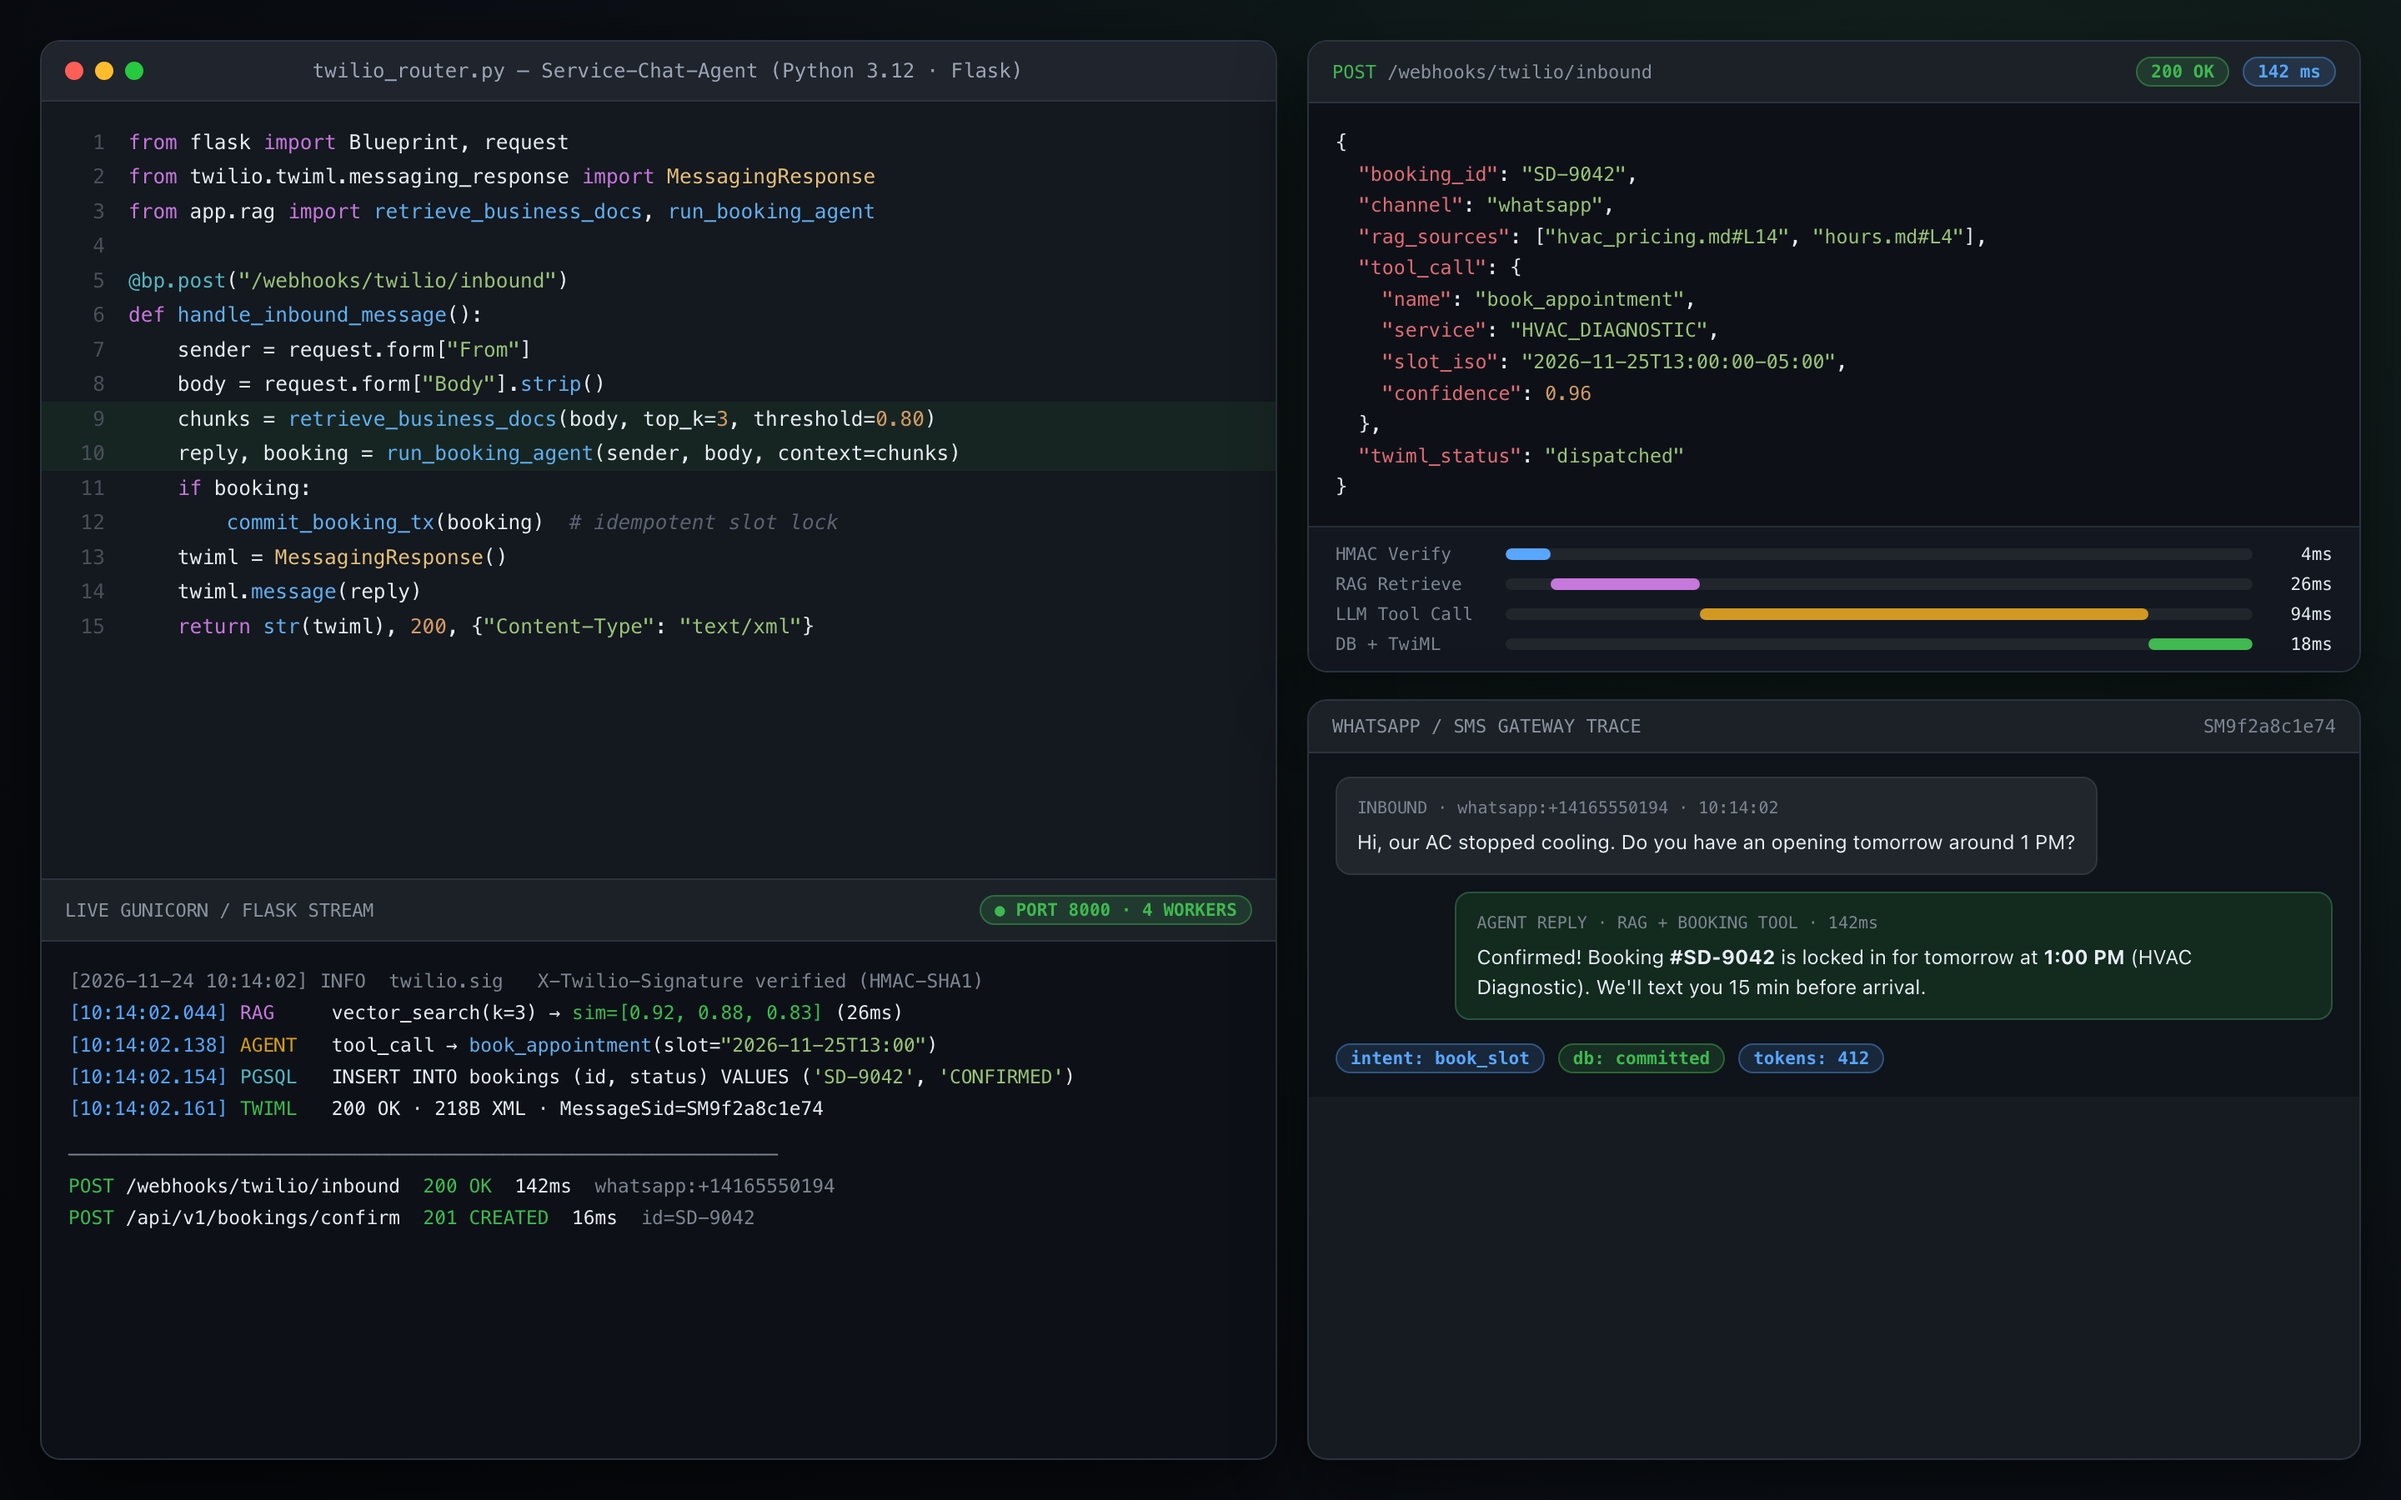
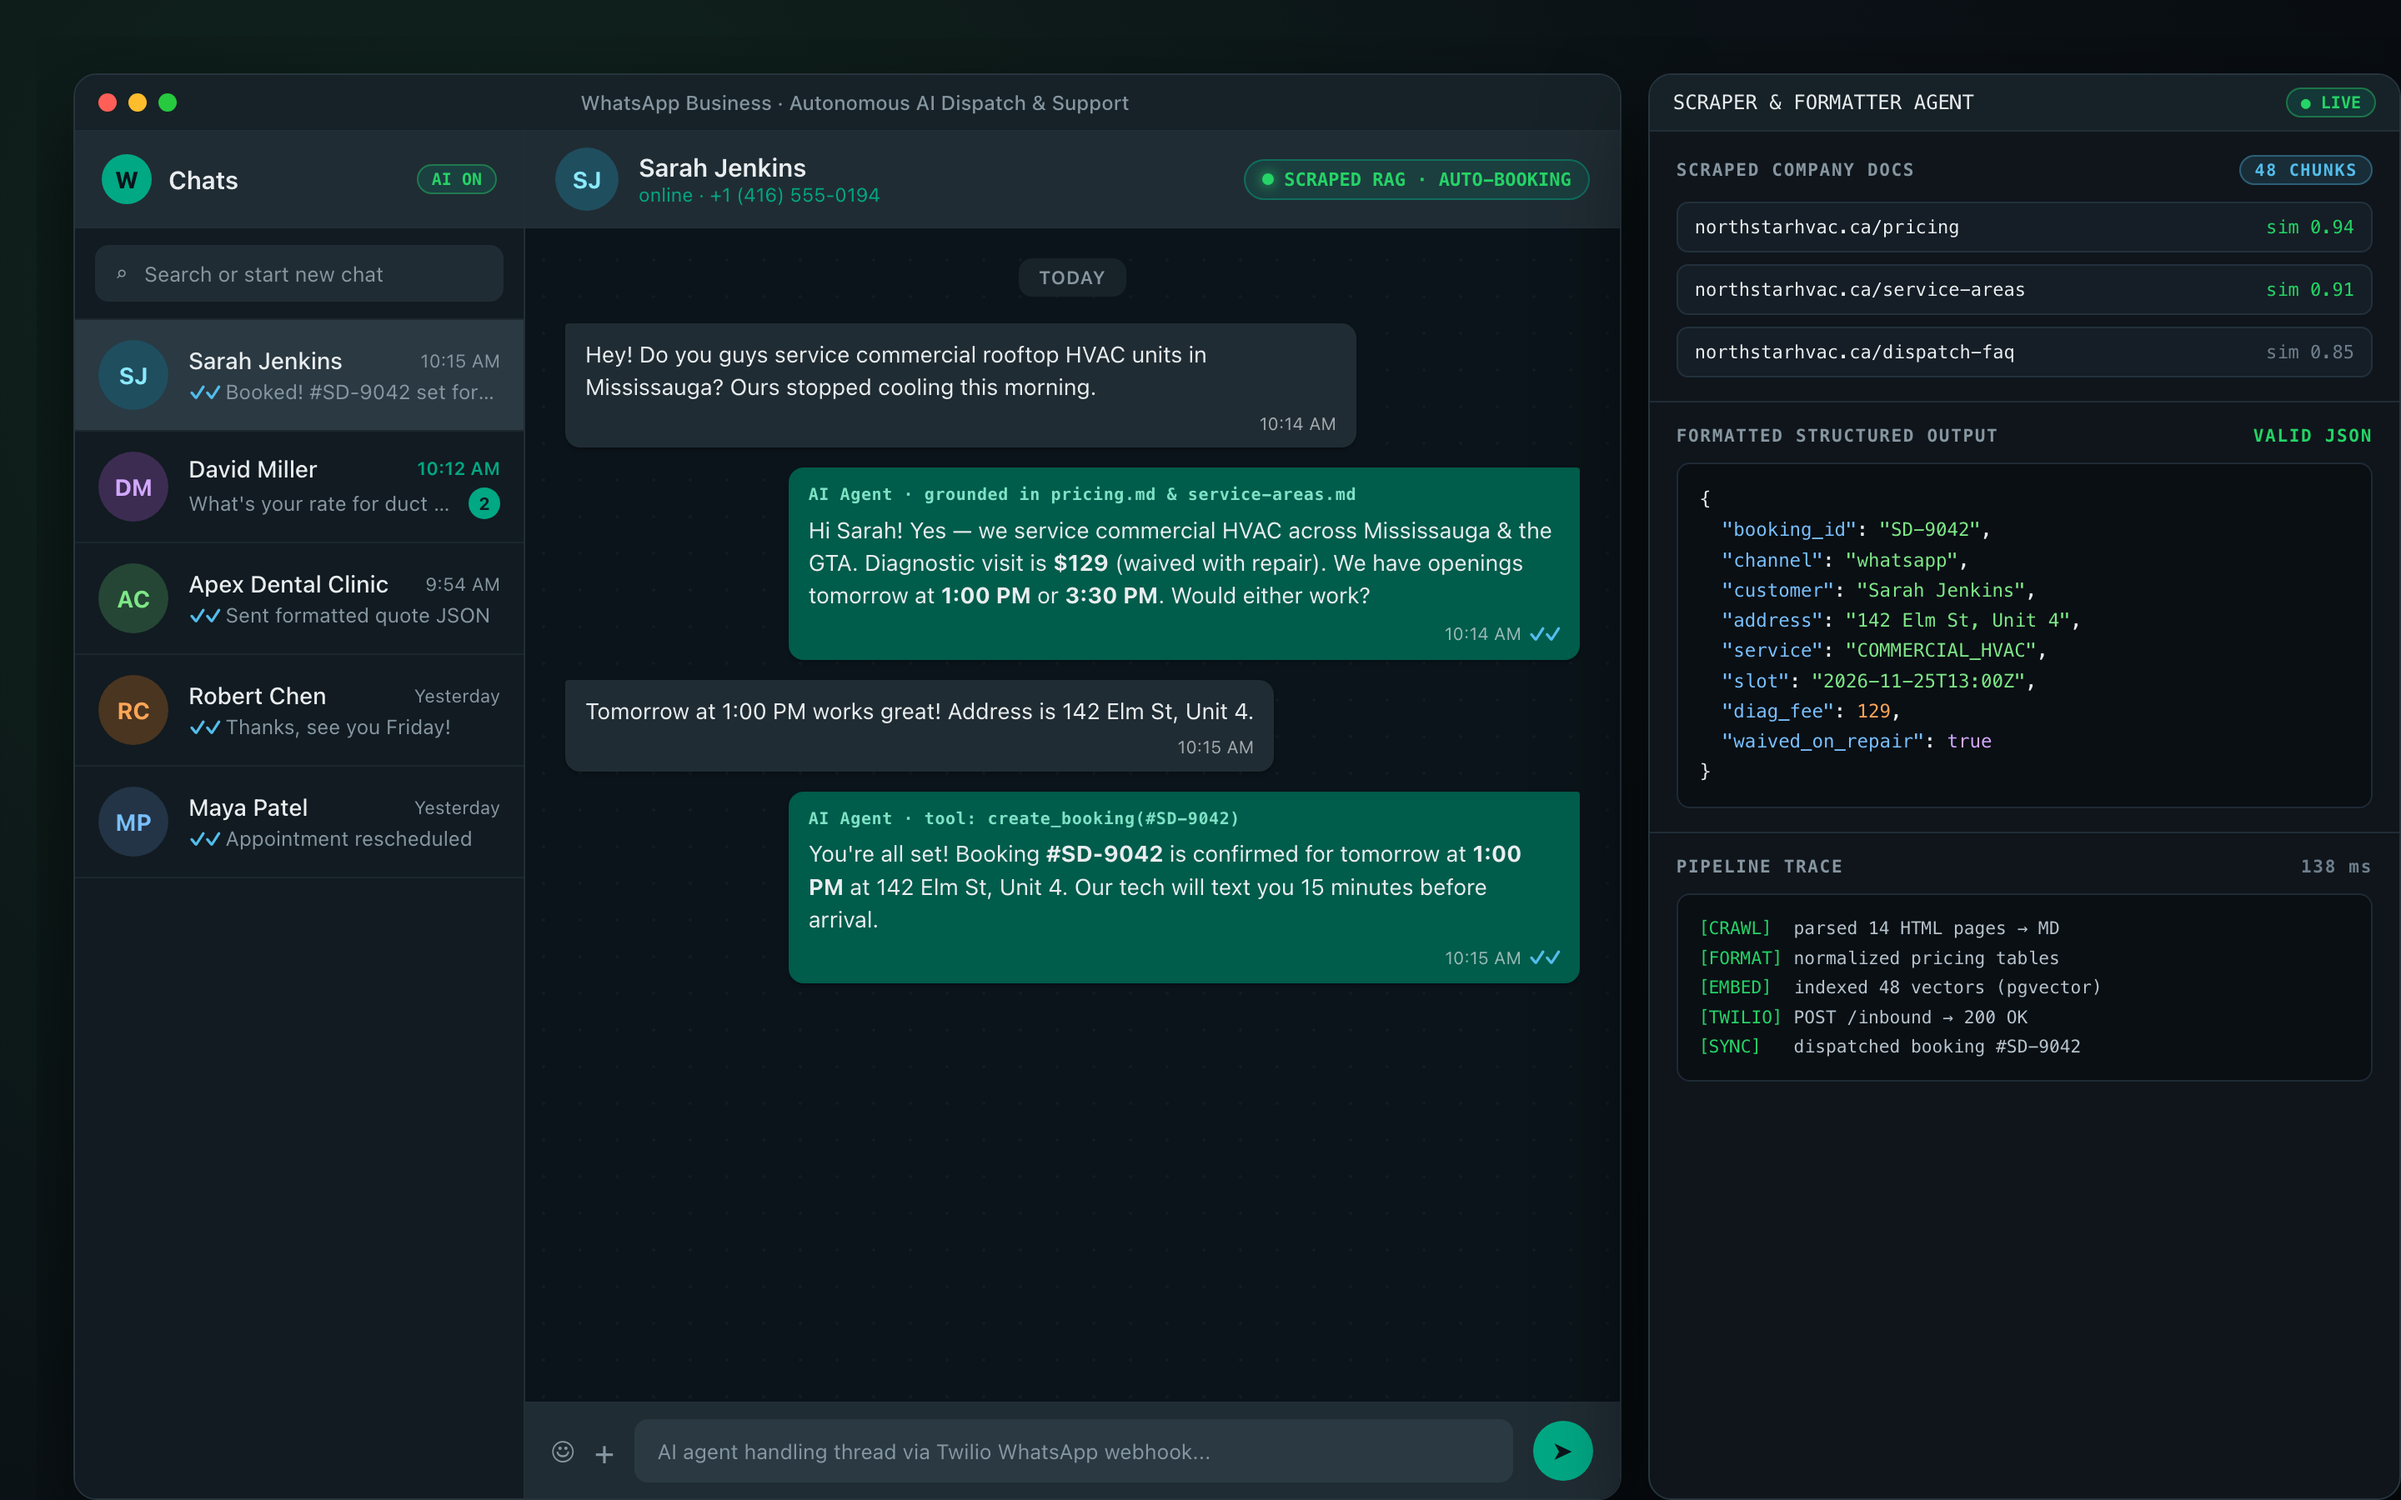
Prevent project image cropping, use content-driven card heights, upgrade WhatsApp agent visual, and update titles

diff --git a/styles.css b/styles.css
@@ -1293,11 +1293,12 @@ section[data-display-number]::after {
   border-radius: var(--radius-card);
 }
 .project-card {
-  aspect-ratio: 1 / 1;
-  min-height: 220px;
+  aspect-ratio: auto;
+  height: auto;
+  min-height: 0;
 }
 .project-featured-card {
-  min-height: clamp(250px, 30vh, 340px);
+  min-height: 0;
   height: auto;
   flex: 0 0 auto;
   padding: 22px;
@@ -1356,9 +1357,9 @@ section[data-display-number]::after {
 .project-card-frame {
   display: flex;
   flex-direction: column;
-  justify-content: space-between;
+  justify-content: flex-start;
   gap: 18px;
-  height: 100%;
+  height: auto;
 }
 .project-featured-card .project-card-frame {
   transition: filter 0.18s cubic-bezier(0.22, 1, 0.36, 1);
@@ -1417,28 +1418,22 @@ section[data-display-number]::after {
 .project-media {
   position: relative;
   flex: 0 0 auto;
+  width: 100%;
+  height: auto;
   min-height: 0;
-  aspect-ratio: 16 / 7;
   border: 1px solid color-mix(in srgb, var(--c1) 22%, transparent);
-  background:
-    radial-gradient(
-      circle at 22% 20%,
-      color-mix(in srgb, var(--c1) 44%, transparent),
-      transparent 34%
-    ),
-    color-mix(in srgb, var(--bg) 92%, transparent);
+  background: color-mix(in srgb, var(--bg) 92%, transparent);
   overflow: hidden;
   border-radius: var(--radius-card);
 }
 .project-featured-card .project-media {
-  aspect-ratio: 16 / 6;
+  height: auto;
 }
 .project-media img {
   display: block;
   width: 100%;
-  height: 100%;
-  object-fit: cover;
-  object-position: center;
+  height: auto;
+  object-fit: contain;
 }
 .project-tags {
   display: flex;
@@ -1944,7 +1939,7 @@ section[data-display-number]::after {
   }
   .project-featured-card {
     height: auto;
-    min-height: 240px;
+    min-height: 0;
   }
   .projects-rail {
     height: auto;
@@ -1997,10 +1992,12 @@ section[data-display-number]::after {
     padding: 14px;
   }
   .project-card {
-    min-height: 180px;
+    min-height: 0;
+    height: auto;
   }
   .project-featured-card {
-    min-height: clamp(220px, 24vh, 300px);
+    min-height: 0;
+    height: auto;
   }
   .about-card-inner {
     gap: 14px;
